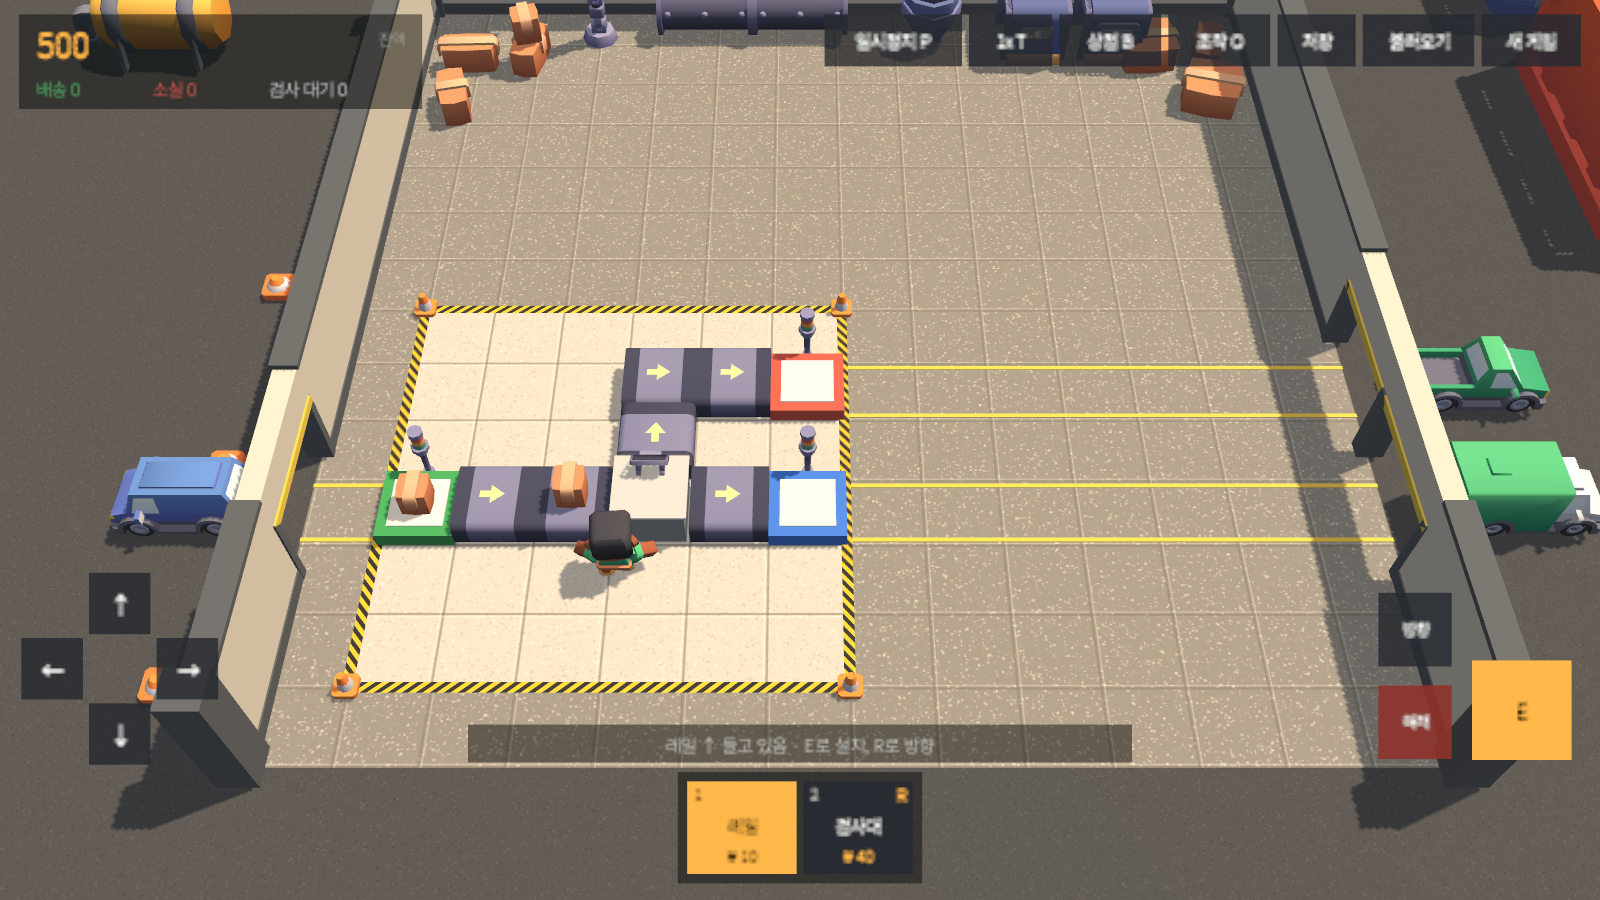
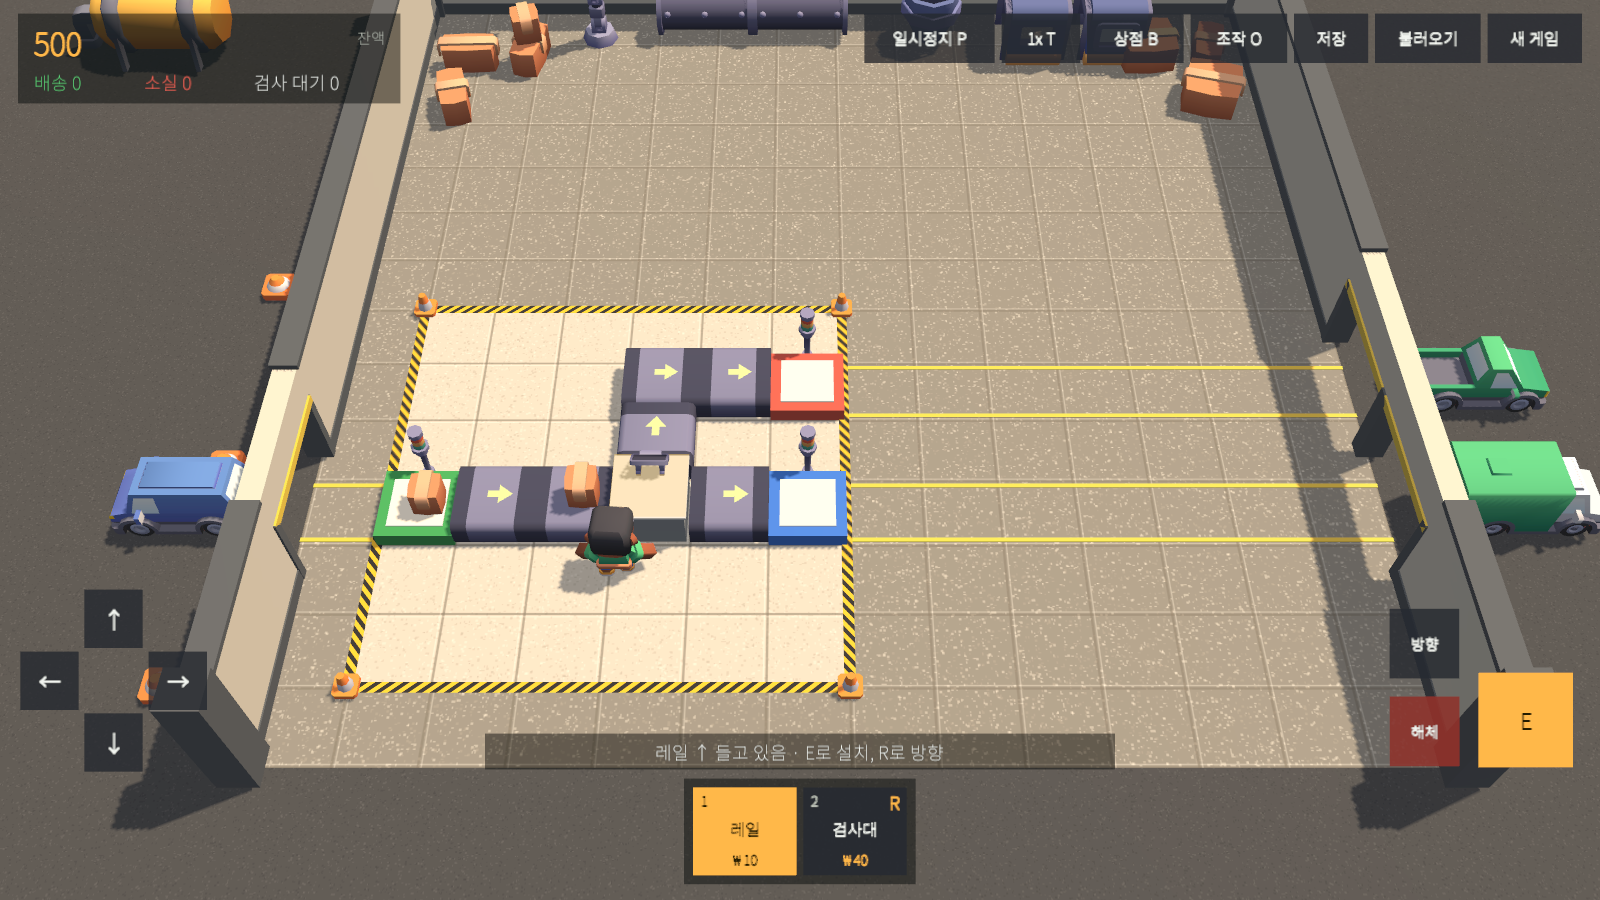
test(game): crisp HUD text in renders, containers moved out of frame
The screenshot harness now sets the HUD CanvasScaler to ConstantPixelSize
with scaleFactor = rt.height/800 during capture and forces every Graphic to
rebuild, so Text glyphs are rasterized at the render size instead of being
stretched from the 640x480 batchmode screen. Yard shipping containers moved
to x >= 18 so none clips the 16:9 or 2400x1080 frame. Renders regenerated.

diff --git a/Assets/Tests/Game/ScreenshotTests.cs b/Assets/Tests/Game/ScreenshotTests.cs
@@ -4,6 +4,7 @@ using NUnit.Framework;
 using ParcelFactory.Core;
 using UnityEngine;
 using UnityEngine.TestTools;
+using UnityEngine.UI;
 
 namespace ParcelFactory.Game.Tests
 {
@@ -136,11 +137,23 @@ namespace ParcelFactory.Game.Tests
             var rt = new RenderTexture(w, h, 24, RenderTextureFormat.ARGB32) { antiAliasing = 4 };
             rt.Create();
             var prevMode = canvas.renderMode;
+            // 배치 모드 화면(640x480) 기준 배율 대신 RenderTexture 높이 기준(게임 기준 해상도 1280x800의 800)으로 HUD를 키워 글자를 선명하게 한다.
+            var scaler = canvas.GetComponent<CanvasScaler>();
+            var prevScaleMode = scaler != null ? scaler.uiScaleMode : CanvasScaler.ScaleMode.ConstantPixelSize;
+            float prevScaleFactor = scaler != null ? scaler.scaleFactor : 1f;
+            if (scaler != null)
+            {
+                scaler.uiScaleMode = CanvasScaler.ScaleMode.ConstantPixelSize;
+                scaler.scaleFactor = h / 800f;
+            }
             cam.targetTexture = rt;
             Reframe(boot.World);
             canvas.renderMode = RenderMode.ScreenSpaceCamera;
             canvas.worldCamera = cam;
             canvas.planeDistance = cam.nearClipPlane + 0.2f;
+            yield return null;
+            // 배율이 바뀌어도 Text는 예전 픽셀 크기로 만든 글리프를 그대로 늘려 쓰므로 다시 만들게 한다.
+            Redraw(canvas);
             yield return null;
             yield return null;
             FixPrompt(boot, cam);
@@ -159,6 +172,12 @@ namespace ParcelFactory.Game.Tests
             cam.targetTexture = null;
             canvas.renderMode = prevMode;
             canvas.worldCamera = null;
+            if (scaler != null)
+            {
+                scaler.scaleFactor = prevScaleFactor;
+                scaler.uiScaleMode = prevScaleMode;
+            }
+            Redraw(canvas);
             Reframe(boot.World);
             rt.Release();
             Object.Destroy(rt);
@@ -169,6 +188,11 @@ namespace ParcelFactory.Game.Tests
             Debug.Log($"[Screenshot] wrote {path} via RenderTexture {w}x{h}, {size} bytes, luminance spread {spread:F3}");
             Assert.Greater(spread, 0.05f, path + " looks blank (uniform colour)");
             Assert.Greater(size, MinBytes, path + " is too small (blank render?)");
+        }
+
+        private static void Redraw(Canvas canvas)
+        {
+            foreach (var g in canvas.GetComponentsInChildren<Graphic>(true)) g.SetAllDirty();
         }
 
         /// <summary>WorldBuilder.FrameLot(현재 크기)를 다시 불러 카메라 비율(=RenderTexture 비율)에 맞춘다.</summary>

diff --git a/Assets/Scripts/Game/WorldBuilder.cs b/Assets/Scripts/Game/WorldBuilder.cs
@@ -258,10 +258,10 @@ namespace ParcelFactory.Game
         private void BuildYard()
         {
             var yard = Group("Yard");
-            // 컨테이너 FBX는 1배에서 약 1.4×1.3×3.0m다. 1.6배(≈2.2×2.1×4.9m)로 두고 동쪽 벽(+7)에서 4m 이상 띄운다.
-            Spawn("shipping-container-a", new Vector3(12.5f, 0f, 3.5f), Quaternion.identity, 1.6f, yard);
-            Spawn("shipping-container-b", new Vector3(12.5f, 0f, 9.0f), Quaternion.identity, 1.6f, yard);
-            Spawn("shipping-container-c", new Vector3(15.0f, 0f, 0.5f), Quaternion.Euler(0f, 5f, 0f), 1.6f, yard);
+            // 컨테이너 FBX는 1배에서 약 1.4×1.3×3.0m다. 1.6배(≈2.2×2.1×4.9m)로 두고 x ≥ 18에 둬 16:9·2400x1080 화면 가장자리에 걸리지 않게 한다.
+            Spawn("shipping-container-a", new Vector3(18.0f, 0f, 3.5f), Quaternion.identity, 1.6f, yard);
+            Spawn("shipping-container-b", new Vector3(18.0f, 0f, 9.0f), Quaternion.identity, 1.6f, yard);
+            Spawn("shipping-container-c", new Vector3(19.0f, 0f, 0.5f), Quaternion.Euler(0f, 5f, 0f), 1.6f, yard);
             Spawn("water-tower", new Vector3(-10.5f, 0f, 9.5f), Quaternion.identity, 2.6f, yard);
             Spawn("detail-tank", new Vector3(-11.5f, 0f, 6.0f), Quaternion.identity, 3.0f, yard);
             Spawn("chimney-medium", new Vector3(9.0f, 0f, 10.5f), Quaternion.identity, 2.6f, yard);
